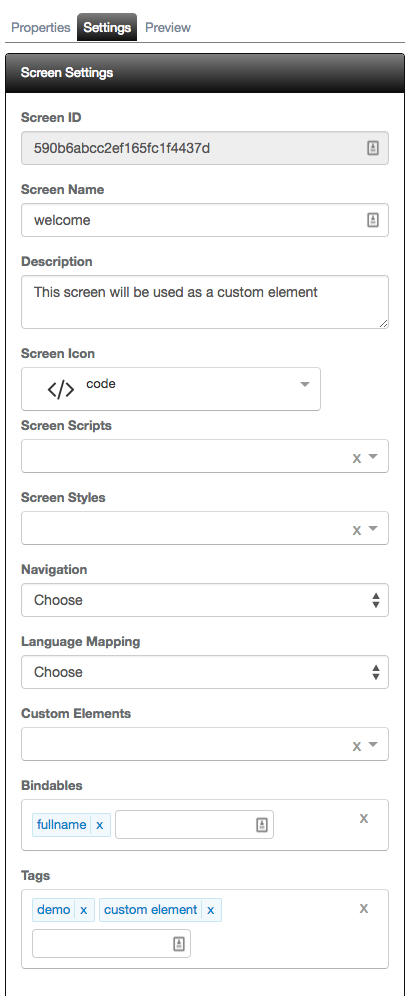
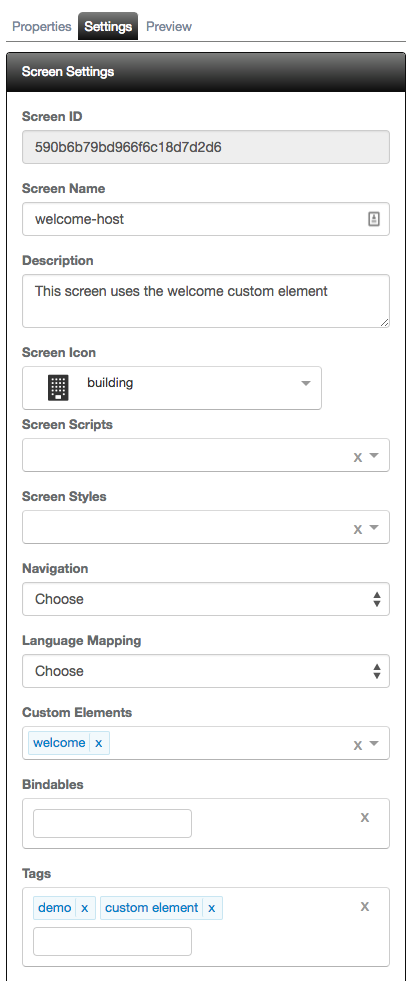
Working on custom-elements.

diff --git a/docs/tutorials/custom-element.md b/docs/tutorials/custom-element.md
@@ -32,6 +32,8 @@ Let's get started.
 
 12) Under the *Settings* tab, type in `fullname` under the Bindables section and hit *enter*.
 
+![Tutorial Project Dashboard](../assets/images/tutorials/tutorial-welcome-settings.png)
+
 13) Save your work.
 
 14) We are now ready to start building our layout. This will be very simple markup.
